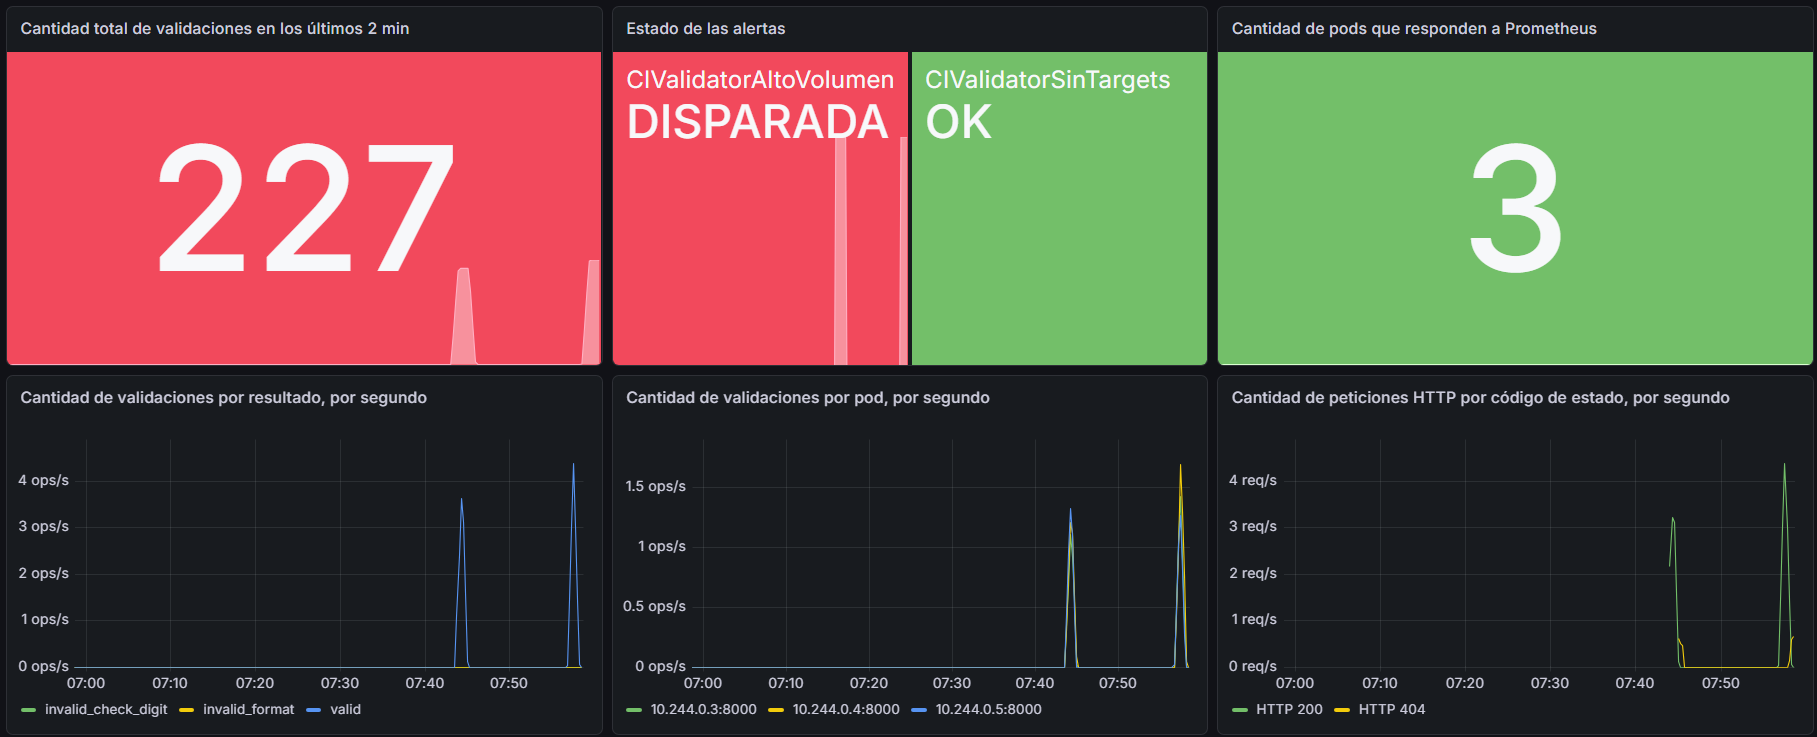
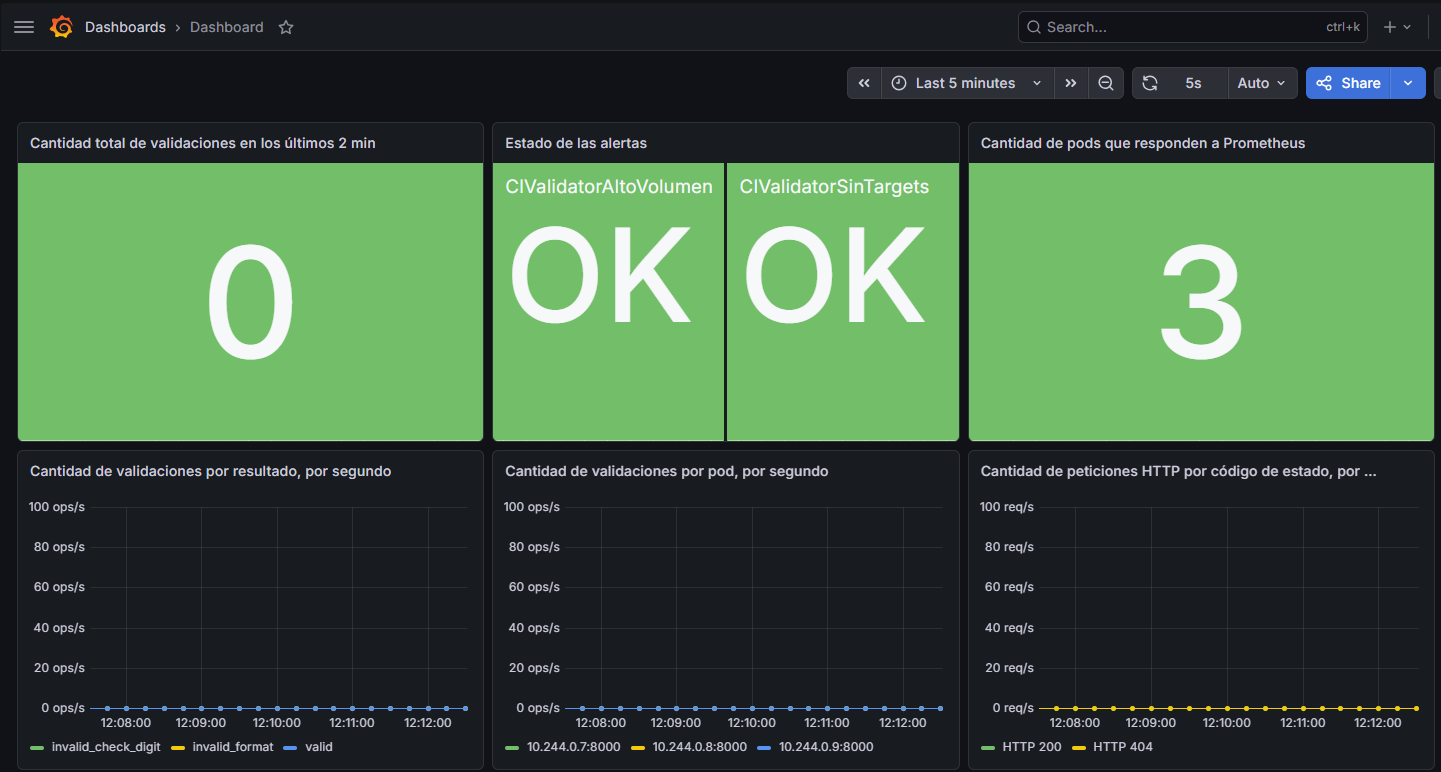
update docs entregable 2

diff --git a/entregable2/README.md b/entregable2/README.md
@@ -3,19 +3,16 @@
 ## Consigna
 
 - Utilizando la aplicacion que crearon para el Entregable 1. Se deberá implementar un sistema de monitoreo y alertas si se pasa determinada cantidad de X operaciones en un período de Y minutos. Ejemplo: si se pasa determinada cantidad de órdenes de un producto en un período de 5 minutos. 
-- La solución debe ser contenerizada y desplegada en un cluster de Kubernetes.
+- La solución debe ser contenerizada y desplegada en un clúster de Kubernetes.
 - Stack recomendado: Java, Springboot, Prometheus, Grafana
 
 # Documentación
 
 ## Funcionalidad de la Aplicación
 
-La API es la del [Entregable 1](../entregable1/README.md), en la versión v2.1.0. Las
-respuestas de `/health` y `/ci/{number}` son las mismas que en v2.0.0, con `api_version`
-igual a `2.1.0`. Cambios de esta versión:
+La API es la del [Entregable 1](../entregable1/README.md), en la versión v2.1.0. Las respuestas de `/health` y `/ci/{number}` son las mismas que en v2.0.0, con `api_version` igual a `2.1.0`. Cambios de esta versión:
 
-- Nuevo endpoint `GET /metrics`, con las métricas en el formato de Prometheus. No aparece
-  en `/docs`, porque se excluyó del esquema a propósito: es un endpoint de infraestructura.
+- Nuevo endpoint `GET /metrics`, con las métricas en el formato de Prometheus. No aparece en `/docs`, porque se excluyó del esquema a propósito: es un endpoint de infraestructura.
 - Un middleware mide todas las peticiones HTTP, salvo las de `/health` y `/metrics`.
 
 ## Stack Tecnológico
@@ -58,7 +55,7 @@ El sistema de monitoreo y alertas para la aplicación utiliza:
 
 Se utiliza:
 
-- Prometheus para recopilar las métricas de las aplicaciones y los pods, y generar las alertas ([definidas aquí](./k8s/monitoring/prometheus/configmap.yaml)).
+- Prometheus para consultar y guardar las métricas de los pods, y generar las [alertas que definimos en ConfigMap](./k8s/monitoring/prometheus/configmap.yaml).
 - Grafana se encarga de la visualización de los datos que brinda Prometheus.
 - La aplicación ([ci-validator-api v2.1.0](../ci-validator-api/v2.1.0/main.py)) expone un endpoint que responde con las métricas por defecto y las creadas por nosotros. La aplicación utiliza la librería [prometheus-client](https://pypi.org/project/prometheus-client/) para hacerlo.
 
@@ -89,7 +86,7 @@ En este caso, las métricas son:
     - Tipo: Histogram
     - Pregunta que responde: ¿Cuánto tarda en responder?	
     - Dominio: Latencia
-    - Buckets (límites superiores, en segundos): de `0.0005` a `0.25`, concentrados entre 0,5 y 3 ms.
+    - Buckets (límites superiores, en segundos): de `0.0005` a `0.25` (0,5ms - 1,0ms - 1,5ms - 2,0ms - 3,0ms - 5,0ms - 10ms - 25ms - 50ms - 100ms - 250ms).
 
 - `ci_validator_http_requests_in_progress{method,route}`
     - Tipo: Gauge (cantidad que puede subir, bajar o establecerse arbitrariamente).
@@ -106,6 +103,8 @@ En este caso, las métricas son:
 ## Comandos e Instrucciones para Probar el Sistema de Monitoreo y Alerta
 
 ### Comandos
+
+Los siguientes comandos fueron ejecutados en PowerShell (>v6.0):
 
 ```bash
 # Todos los comandos se ejecutan desde la raíz del repositorio.
@@ -155,15 +154,23 @@ minikube service grafana --url              # http://localhost:Z  (admin/admin)
 === CREAR Y VER DASHBOARDS EN GRAFANA ==
 # Crear el datasource y los dashboards en la interfaz web de Grafana, como se indica más abajo.
 
-=== TRÁFICO === -> Dispara la alerta: más de X = 40 validaciones en un período de Y = 2 minutos.
-1..100 | ForEach-Object { curl.exe -s -o NUL "http://localhost:X/ci/1.234.567-2"; Start-Sleep -Milliseconds 500 }
+=== DISPARAR ALERTAS ===
+
+# Dispara la alerta: más de X = 40 validaciones en un período de Y = 2 minutos.
+1..200 | ForEach-Object { curl.exe -s -o NUL "http://localhost:X/ci/1.234.567-2"; Start-Sleep -Milliseconds 50 }
 
 # Opcional: generar errores 404 para el panel de códigos HTTP.
-1..30 | ForEach-Object { curl.exe -s -o NUL "http://localhost:X/ruta-inexistente"; Start-Sleep -Milliseconds 500 }
+1..30 | ForEach-Object { curl.exe -s -o NUL "http://localhost:X/ruta-inexistente"; Start-Sleep -Milliseconds 50 }
 
-=== VER ALERTA ===
+# Reducir cantidad de pods a 0. Si se mantiene por 1 minuto: dispara la alerta que avisa que Prometheus no logra leer ningún pod de la app.
+kubectl scale deployment/ci-validator-api --replicas=0
+
+# Volver a la normalidad.
+kubectl scale deployment/ci-validator-api --replicas=3
+
+=== VER ALERTAS ===
 # Se ve en los dashboards, como se indica más abajo.
-# En Prometheus: http://localhost:Y/alerts (la regla pasa de inactive a firing; puede demorar hasta ~30 s).
+# En Prometheus: http://localhost:Y/alerts
 # En Grafana: panel "Estado de las alertas".
 
 === BORRAR TODO ===
@@ -173,12 +180,7 @@ minikube delete --all --purge
 
 ### Datasource de Prometheus
 
-El datasource se crea automáticamente al iniciar Grafana. Está definido en
-[datasource-configmap.yaml](./k8s/monitoring/grafana/datasource-configmap.yaml):
-UID fijo `prometheus`, URL `http://prometheus:9090` (nombre y puerto del Service de
-Prometheus) y Scrape interval de 15 s, el mismo `scrape_interval` del
-[ConfigMap de Prometheus](./k8s/monitoring/prometheus/configmap.yaml). Grafana usa
-ese valor para calcular `$__rate_interval`.
+El datasource se crea automáticamente al iniciar Grafana. Está definido en [datasource-configmap.yaml](./k8s/monitoring/grafana/datasource-configmap.yaml): UID fijo `prometheus`, URL `http://prometheus:9090` (nombre y puerto del Service de Prometheus) y Scrape interval de 15 s, el mismo `scrape_interval` del [ConfigMap de Prometheus](./k8s/monitoring/prometheus/configmap.yaml). Grafana usa ese valor para calcular `$__rate_interval`.
 
 Para verificarlo: Connections → Data sources → Prometheus → Save & test.
 
@@ -262,28 +264,95 @@ Estos son los paneles del dashboard que creamos:
 
 Test simple para comprobar que saltan las alertas y que el dashboard muestra los estados del sistema, ya sea el actual o pasados.
 
-Así se ve el dashboard sin enviar nada de tráfico a la aplicación en este instante:
+Así se ve sin enviar nada de tráfico a la aplicación en este instante:
+
+En Prometheus:
 
 ![alt text](./images/dashboard/image.png)
 
 ![alt text](./images/dashboard/image-1.png)
 
-Al ejecutar en la terminal:
-
-```bash
-1..200 | ForEach-Object { curl.exe -s -o NUL "http://localhost:X/ci/1.234.567-2"; Start-Sleep -Milliseconds 100 }
-1..30 | ForEach-Object { curl.exe -s -o NUL "http://localhost:X/ruta-inexistente"; Start-Sleep -Milliseconds 500 }
-```
-
-Luego de unos pocos segundos, el dashboard reflejó el estado del sistema ante estrés y mostró que se generó una alerta (Prometheus generó la alerta; Grafana la mostró):
+En Grafana:
 
 ![alt text](./images/dashboard/image-2.png)
 
 ![alt text](./images/dashboard/image-3.png)
 
+Al ejecutar en la terminal (cambiar la X por el puerto que se haya brindado anteriormente):
 
-Luego, al detenerse el tráfico, detectó que el sistema se estabilizó y que no había ninguna alerta disparada:
+```bash
+1..200 | ForEach-Object { curl.exe -s -o NUL "http://localhost:X/ci/1.234.567-2"; Start-Sleep -Milliseconds 50 }
+1..30 | ForEach-Object { curl.exe -s -o NUL "http://localhost:X/ruta-inexistente"; Start-Sleep -Milliseconds 50 }
+```
+
+Luego de unos pocos segundos (15s), se reflejó el estado del sistema ante estrés y se mostró que se generó una alerta:
+
+En Prometheus:
 
 ![alt text](./images/dashboard/image-4.png)
 
+En Grafana:
+
 ![alt text](./images/dashboard/image-5.png)
+
+![alt text](./images/dashboard/image-6.png)
+
+Luego, al detenerse el tráfico, se detectó que el sistema se estabilizó y que no había ninguna alerta disparada:
+
+En Prometheus:
+
+![alt text](./images/dashboard/image-7.png)
+
+En Grafana:
+
+![alt text](./images/dashboard/image-8.png)
+
+![alt text](./images/dashboard/image-9.png)
+
+Al ejecutar en la terminal:
+
+```bash
+kubectl scale deployment/ci-validator-api --replicas=0
+```
+
+Luego de unos pocos segundos (15s), se reflejó el estado del sistema y se mostró que se generó una alerta (en estado pendiente porque no pasó 1min):
+
+En Prometheus:
+
+![alt text](./images/dashboard/image-10.png)
+
+En Grafana:
+
+![alt text](./images/dashboard/image-11.png)
+
+![alt text](./images/dashboard/image-12.png)
+
+Luego de 1min se disparó la alerta:
+
+En Prometheus:
+
+![alt text](./images/dashboard/image-13.png)
+
+En Grafana:
+
+![alt text](./images/dashboard/image-14.png)
+
+Al ejecutar en la terminal:
+
+```bash
+kubectl scale deployment/ci-validator-api --replicas=3
+```
+
+Luego de unos pocos segundos (15s), se reflejó el estado del sistema y se mostró que no se disparó la alerta, ya que el sistema regresó a la normalidad:
+
+En Prometheus:
+
+![alt text](./images/dashboard/image-15.png)
+
+![alt text](./images/dashboard/image-16.png)
+
+En Grafana:
+
+![alt text](./images/dashboard/image-17.png)
+
+> **_Nota_** Véase que se crearon nuevos pods porque los viejos se eliminaron.
